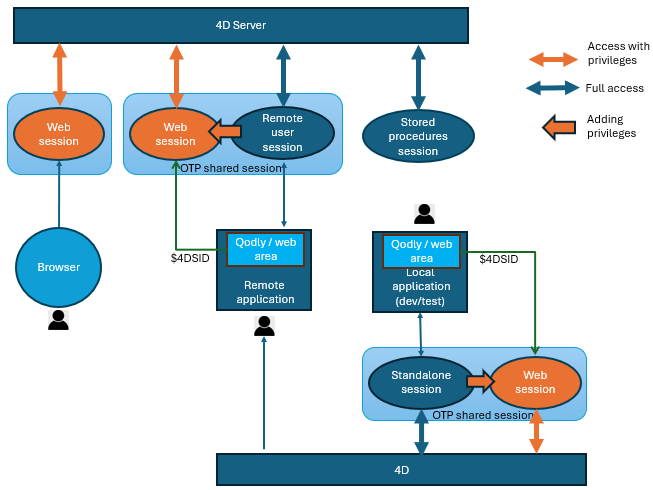
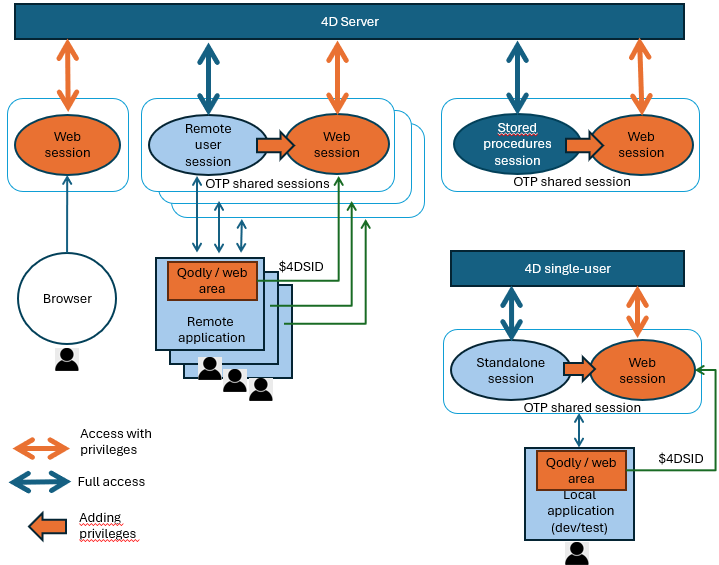
after closure 1

diff --git a/src/data/homepageTiles.js b/src/data/homepageTiles.js
@@ -182,6 +182,9 @@ title: (
         <Link to="Desktop/clientServer" >
           <Translate>Client/Server</Translate>
         </Link>
+         <Link to="Desktop/desktop-sessions" >
+          <Translate>Sessions</Translate>
+        </Link>
         <Link to="FormEditor/forms" >
           <Translate>Forms</Translate>
         </Link>

diff --git a/docs/commands/session.md b/docs/commands/session.md
@@ -24,20 +24,21 @@ displayed_sidebar: docs
 
 ## Description
 
-The `Session` command <!-- REF #_command_.Session.Summary -->returns the `Session` object corresponding to the current user session<!-- END REF -->.
+The `Session` command <!-- REF #_command_.Session.Summary -->returns the `Session` object corresponding to the current user session in the current execution context<!-- END REF -->.
 
 Depending on the process from which the command is called, the current user session can be:
 
 - a web session (when [scalable sessions are enabled](WebServer/sessions.md#enabling-web-sessions)),
-- a remote client session,
+- a remote client session (on the server),
 - the stored procedures session,
-- the *designer* session in a standalone application.
+- a standalone session.
 
 For more information, see the [Session types](../API/SessionClass.md#session-types) paragraph.
 
-If the command is called from a non supported context (e.g. scalable sessions disabled), it returns *Null*.
+If the command is called from a non supported context (e.g. scalable sessions disabled or a remote 4D), it returns *Null*.
 
-## Web sessions
+
+### Web sessions
 
 The `Session` object of web sessions is available from any web process:
 
@@ -49,7 +50,7 @@ The `Session` object of web sessions is available from any web process:
 
 For more information on web user sessions, please refer to the [Web Server Sessions](../WebServer/sessions.md) section.
 
-## Remote client sessions
+### Remote client sessions
 
 The `Session` object of remote client sessions is available from:
 
@@ -60,7 +61,7 @@ The `Session` object of remote client sessions is available from:
 
 For more information on remote user sessions, please refer to the [**Remote client user sessions**](../Desktop/clientServer.md#remote-user-sessions) paragraph.
 
-## Stored procedures session
+### Stored procedures session
 
 All stored procedure processes share the same virtual user session. The `Session` object of stored procedures is available from:
 
@@ -70,9 +71,24 @@ All stored procedure processes share the same virtual user session. The `Session
 For information on stored procedures virtual user session, please refer to the [4D Server and the 4D Language](https://doc.4d.com/4Dv20/4D/20/4D-Server-and-the-4D-Language.300-6330554.en.html) page.
 
 
-## Standalone session
+### Standalone session
 
 The `Session` object is available from any process in standalone (single-user) applications so that you can write and test your client/server code using the `Session` object in your 4D development environment.
+
+
+### Specific calling contexts
+
+The context from which the `Session` command is called also impacts the object it returns. 
+
+|Specific context|Description of the Session object|Comment|
+|---|---|---|
+|Component code in 4D single-user|Standalone session of the component|Each component as well as the host project has its own `session` object |
+|4D Remote application code|Null|The `Session` object is null on a 4D remote application |
+|Desktop session executing web a request through OTP|Session object with privileges|Even in a Desktop session, any code executed in a web context supports privileges |
+|Legacy sessions or no sessions are used|Null|The `session` object is not created |
+
+
+
 
 
 ## Example
@@ -100,7 +116,8 @@ IP:port/4DACTION/action_Session
 ## See also
 
 [Session storage](session-storage.md)  
-[Session API](../API/SessionClass.md)  
+[Session API](../API/SessionClass.md) 
+[Desktop sessions](../Desktop/sessions.md) 
 [Web server user sessions](../WebServer/sessions.md)  
 [*Scalable sessions for advanced web applications* (blog post)](https://blog.4d.com/scalable-sessions-for-advanced-web-applications/)
 

diff --git a/versioned_docs/version-21/commands/session.md b/versioned_docs/version-21/commands/session.md
@@ -24,20 +24,21 @@ displayed_sidebar: docs
 
 ## Description
 
-The `Session` command <!-- REF #_command_.Session.Summary -->returns the `Session` object corresponding to the current user session<!-- END REF -->.
+The `Session` command <!-- REF #_command_.Session.Summary -->returns the `Session` object corresponding to the current user session in the current execution context<!-- END REF -->.
 
 Depending on the process from which the command is called, the current user session can be:
 
 - a web session (when [scalable sessions are enabled](WebServer/sessions.md#enabling-web-sessions)),
-- a remote client session,
+- a remote client session (on the server),
 - the stored procedures session,
-- the *designer* session in a standalone application.
+- a standalone session.
 
 For more information, see the [Session types](../API/SessionClass.md#session-types) paragraph.
 
-If the command is called from a non supported context (e.g. scalable sessions disabled), it returns *Null*.
+If the command is called from a non supported context (e.g. scalable sessions disabled or a remote 4D), it returns *Null*.
 
-## Web sessions
+
+### Web sessions
 
 The `Session` object of web sessions is available from any web process:
 
@@ -49,7 +50,7 @@ The `Session` object of web sessions is available from any web process:
 
 For more information on web user sessions, please refer to the [Web Server Sessions](../WebServer/sessions.md) section.
 
-## Remote client sessions
+### Remote client sessions
 
 The `Session` object of remote client sessions is available from:
 
@@ -60,7 +61,7 @@ The `Session` object of remote client sessions is available from:
 
 For more information on remote user sessions, please refer to the [**Remote client user sessions**](../Desktop/clientServer.md#remote-user-sessions) paragraph.
 
-## Stored procedures session
+### Stored procedures session
 
 All stored procedure processes share the same virtual user session. The `Session` object of stored procedures is available from:
 
@@ -70,9 +71,24 @@ All stored procedure processes share the same virtual user session. The `Session
 For information on stored procedures virtual user session, please refer to the [4D Server and the 4D Language](https://doc.4d.com/4Dv20/4D/20/4D-Server-and-the-4D-Language.300-6330554.en.html) page.
 
 
-## Standalone session
+### Standalone session
 
 The `Session` object is available from any process in standalone (single-user) applications so that you can write and test your client/server code using the `Session` object in your 4D development environment.
+
+
+### Specific calling contexts
+
+The context from which the `Session` command is called also impacts the object it returns. 
+
+|Specific context|Description of the Session object|Comment|
+|---|---|---|
+|Component code in 4D single-user|Standalone session of the component|Each component as well as the host project has its own `session` object |
+|4D Remote application code|Null|The `Session` object is null on a 4D remote application |
+|Desktop session executing web a request through OTP|Session object with privileges|Even in a Desktop session, any code executed in a web context supports privileges |
+|Legacy sessions or no sessions are used|Null|The `session` object is not created |
+
+
+
 
 
 ## Example
@@ -100,7 +116,8 @@ IP:port/4DACTION/action_Session
 ## See also
 
 [Session storage](session-storage.md)  
-[Session API](../API/SessionClass.md)  
+[Session API](../API/SessionClass.md) 
+[Desktop sessions](../Desktop/sessions.md) 
 [Web server user sessions](../WebServer/sessions.md)  
 [*Scalable sessions for advanced web applications* (blog post)](https://blog.4d.com/scalable-sessions-for-advanced-web-applications/)
 

diff --git a/docs/Desktop/sessions.md b/docs/Desktop/sessions.md
@@ -22,7 +22,7 @@ Desktop sessions include:
 
 :::note
 
-Keep in mind that **Web sessions** are used as soon as the 4D project is accessed through web or REST requests.[ Web sessions are detailed in this page](../WebServer/sessions.md). 
+Keep in mind that [**Web sessions**](../WebServer/sessions.md) are used as soon as the 4D project is accessed through web or REST requests and [scalable sessions](../WebServer/sessions.md#enabling-web-sessions) are enabled. 
 
 :::
 
@@ -34,9 +34,17 @@ The following diagram shows the different session types and how they interact:
 
 
 
+
 ## Remote user sessions
 
 On the server, in "user processes" (i.e. processes related to remote users), the [`Session`](../commands/session.md) command returns a `session` object describing the current user session. This object is handled through the functions and properties of the [`Session` class](../API/SessionClass.md).
+
+:::note
+
+On a remote 4D, the `session` object always returns null.
+
+:::
+
 
 :::tip Related blog posts
 
@@ -77,7 +85,7 @@ The `session` object of stored procedures is available from:
 
 - Project methods that are called by the [`Execute on Server`](../commands-legacy/execute-on-server.md) command,
 - ORDA [data model functions](../ORDA/ordaClasses.md) called from a stored procedure, 
-- Database methods such as [`On Server Startup`](../commands/on-server-startup-database-method) and [`On Server Shutdown`](../commands/on-server-shutdown-database-method.md).
+- Database methods such as [`On Server Startup`](../commands/on-server-startup-database-method) and [`On Server Shutdown`](../commands/on-server-shutdown-database-method).
 
 
 ## Standalone sessions
@@ -109,7 +117,7 @@ Shared sessions are handled through [OTP tokens](../WebServer/sessions.md#sessio
 
 :::tip Related blog post
 
-[Share your 4D remote client session with web accesses](https://blog.4d.com/share-your-4d-remote-client-session-with-web-accesses)
+[Embed Qodly pages in a 4D web area without extra cost](https://blog.4d.com/embed-qodly-pages-in-a-4d-web-area-without-extra-cost)
 
 :::
 

diff --git a/versioned_docs/version-21/Desktop/sessions.md b/versioned_docs/version-21/Desktop/sessions.md
@@ -85,7 +85,7 @@ The `session` object of stored procedures is available from:
 
 - Project methods that are called by the [`Execute on Server`](../commands-legacy/execute-on-server.md) command,
 - ORDA [data model functions](../ORDA/ordaClasses.md) called from a stored procedure, 
-- Database methods such as [`On Server Startup`](../commands/on-server-startup-database-method) and [`On Server Shutdown`](../commands/on-server-shutdown-database-method.md).
+- Database methods such as [`On Server Startup`](../commands/on-server-startup-database-method) and [`On Server Shutdown`](../commands/on-server-shutdown-database-method).
 
 
 ## Standalone sessions
@@ -117,7 +117,7 @@ Shared sessions are handled through [OTP tokens](../WebServer/sessions.md#sessio
 
 :::tip Related blog post
 
-[Share your 4D remote client session with web accesses](https://blog.4d.com/share-your-4d-remote-client-session-with-web-accesses)
+[Embed Qodly pages in a 4D web area without extra cost](https://blog.4d.com/embed-qodly-pages-in-a-4d-web-area-without-extra-cost)
 
 :::
 

diff --git a/versioned_docs/version-21/API/SessionClass.md b/versioned_docs/version-21/API/SessionClass.md
@@ -587,7 +587,7 @@ The `.isGuest()` function <!-- REF #SessionClass.isGuest().Summary -->returns Tr
 
 :::note Compatibility
 
-With legacy sessions, `.isGuest()` returns True if the session has no privileges. 
+In a REST session when the [**Force login mode**](../REST/authUsers.md#force-login-mode) is not enabled, `.isGuest()` returns True if the session has no privileges. 
 
 :::
 
